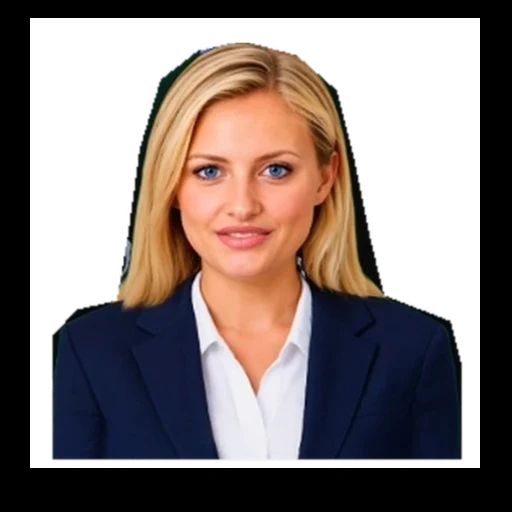
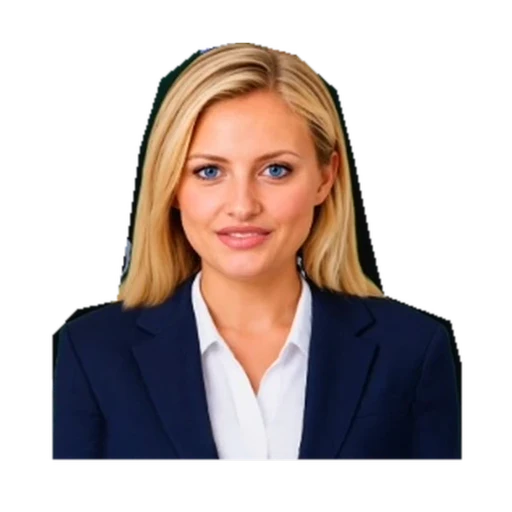
Fix black frame around Aspen's portrait while the widget connects
The pre-live still (aspen-video-frame-final.webp, a captured Simli frame)
had the stream's pure-black padding baked in as opaque bands at its
edges — alpha 255 / RGB 0 at every corner — while the rest of the cutout
surround is transparent. In the livebox that still is the only visible
painter until the chroma-keyed live face takes over (video opacity-0,
canvas hidden, Simli root display:none), so the bands rendered as the
thick black frame Ron screenshotted on /agents/realtors; once live, the
keyed canvas keys the same padding to transparent and the bars vanish.

Repair the asset: flood-clear the border-connected near-pure-black
padding to transparency (59,644 px, 22.8% of frame), so the portrait's
theme-tone radial-gradient backdrop shows there instead of black. Every
opaque content pixel asserted unchanged. No layout/CSS/size changes:
her framing is identical, the black is simply gone. Render-verified
headlessly at 390px and 1280px (mid-row black bars 12px/12px -> 0/0);
tests pin the fill/cover/backdrop contract.

Changed region(s): [[0.0, 0.0, 1.0, 1.0]]

diff --git a/src/test/black-frame-fix.test.ts b/src/test/black-frame-fix.test.ts
@@ -1,0 +1,65 @@
+import { readFileSync } from 'node:fs';
+import { resolve } from 'node:path';
+import { describe, expect, it } from 'vitest';
+
+// Ron's black-frame report (2026-11-11): while the widget sat in
+// "Connecting…", Aspen's face appeared inside thick black bars instead of
+// filling her frame; the bars vanished once the live (chroma-keyed) face
+// took over. Root cause, proven by a headless render probe: in the
+// pre-live state the ONLY visible painter inside .aspen-person-livebox is
+// the still portrait <img>, and the still asset itself —
+// src/assets/aspen-video-frame-final.webp, a captured Simli frame — had
+// the stream's pure-black padding baked in as OPAQUE bands at its edges
+// (alpha 255, RGB 0 at every corner), while the rest of the cutout
+// surround is transparent. The fix cleared the border-connected black
+// padding to transparency so the portrait element's own theme-tone
+// backdrop (the radial gradient on .aspen-person-portrait) shows there —
+// the panel's tone, never black. The pixel-level proof lives in the
+// render verification (report: black-frame-fix-report-2026-11-11.md);
+// these pins lock the layout contract the fix relies on.
+const css = readFileSync(resolve(__dirname, '../index.css'), 'utf8');
+const simli = readFileSync(resolve(__dirname, '../components/SimliAvatar.tsx'), 'utf8');
+const frame = readFileSync(resolve(__dirname, '../components/FloatingPersonFrame.tsx'), 'utf8');
+
+describe('black frame fix — portrait fills its frame in every state', () => {
+  it('the livebox clips to one fixed box and the portrait fills it edge-to-edge', () => {
+    expect(css).toContain('.aspen-person-livebox { position: relative; z-index: 0; width: 234px; height: 188px; flex-shrink: 0; overflow: hidden; }');
+    expect(css).toContain('.aspen-person-shell .aspen-person-livebox .aspen-person-portrait { width: 100%; height: 100%; display: block; }');
+  });
+
+  it('the portrait backdrop is the panel theme gradient, never black', () => {
+    const rule = css.match(/\.aspen-person-portrait \{ background: ([^}]+)\}/);
+    expect(rule).toBeTruthy();
+    expect(rule![1]).toContain('radial-gradient');
+    expect(rule![1]).toContain('hsl(var(--primary)');
+    expect(rule![1]).toContain('hsl(var(--muted)');
+    expect(rule![1]).not.toContain('#000');
+    expect(rule![1]).not.toContain('black');
+  });
+
+  it('the still portrait renders with cover framing (face-dominant, no letterbox)', () => {
+    expect(frame).toContain('aspen-person-portrait mx-auto object-cover object-top');
+    expect(css).toContain('.aspen-person-portrait { width: 234px; height: 188px; flex-shrink: 0; object-fit: cover; object-position: top center; }');
+  });
+
+  it('the live media uses the same cover framing as the still it replaces', () => {
+    expect(css).toContain('.aspen-person-live-media { object-fit: cover; object-position: top center; }');
+    // Unboxed (in-frame) Simli video + keyed canvas both carry the cover classes.
+    expect(simli).toContain("unboxed ? 'object-cover object-top aspen-person-live-media' : 'object-contain'");
+    // The unboxed container itself paints no background of its own.
+    expect(simli).not.toContain("unboxed ? 'absolute inset-0 bg-black");
+  });
+
+  it('the still asset is an alpha cutout (WebP with an alpha-capable encoding)', () => {
+    const bytes = readFileSync(resolve(__dirname, '../assets/aspen-video-frame-final.webp'));
+    expect(bytes.subarray(0, 4).toString('ascii')).toBe('RIFF');
+    expect(bytes.subarray(8, 12).toString('ascii')).toBe('WEBP');
+    const header = bytes.subarray(0, 64).toString('ascii');
+    // VP8L (lossless, always alpha) or VP8X with the alpha flag set: the
+    // repaired still ships lossless VP8L. An opaque VP8 frame grab (no
+    // alpha channel at all) must never come back.
+    const isLossless = header.includes('VP8L');
+    const hasAlphaFlag = header.includes('VP8X') && (bytes[20] & 0x10) !== 0;
+    expect(isLossless || hasAlphaFlag).toBe(true);
+  });
+});
